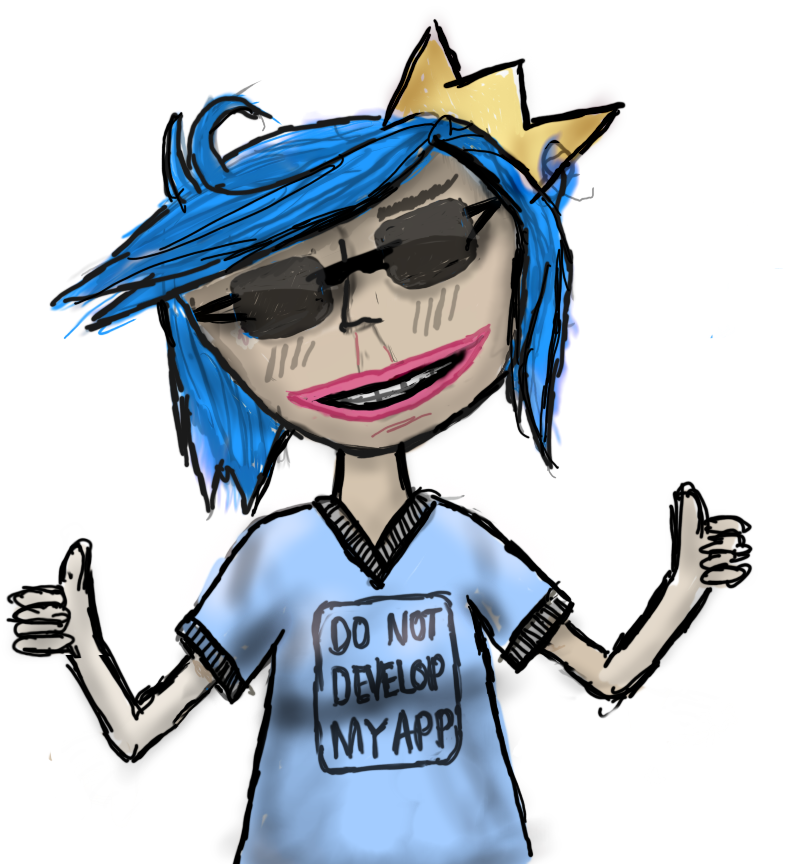
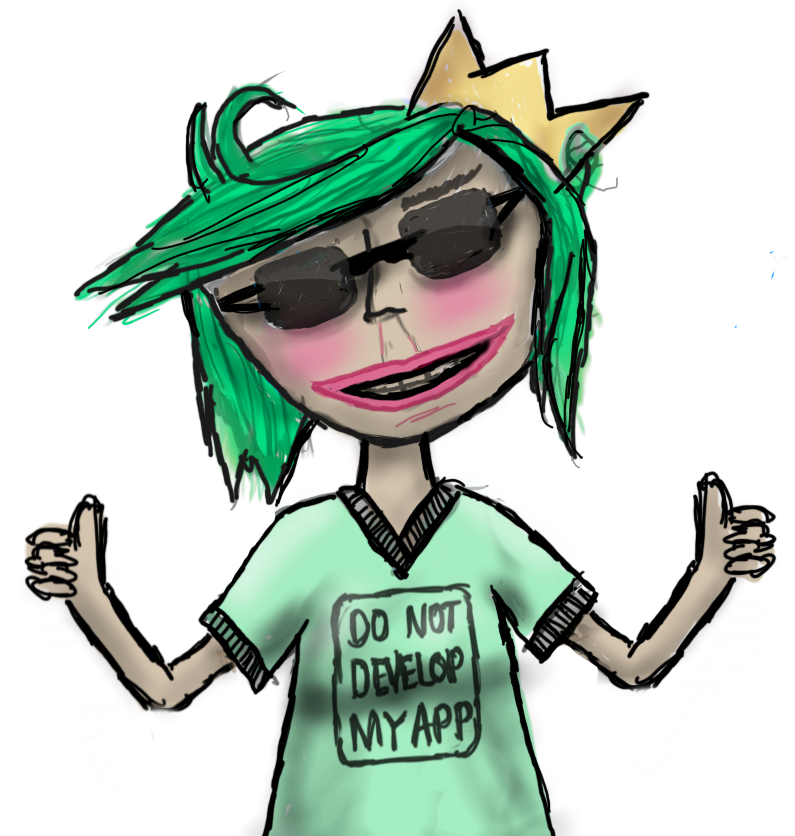
Finalizing green theme

diff --git a/handShakeClient/AppShell.xaml b/handShakeClient/AppShell.xaml
@@ -4,6 +4,7 @@
        xmlns:controls="clr-namespace:HandshakeClient.Controls"
        xmlns:views="clr-namespace:HandshakeClient.Views"
        FlyoutBackgroundImageAspect="AspectFill"
+       FlyoutBackgroundColor="{DynamicResource PageBackgroundColor}"
        FlyoutHeaderBehavior="CollapseOnScroll"
        x:Class="HandshakeClient.AppShell"
        TabBarIsVisible="False">
@@ -48,16 +49,16 @@
       </Grid>
     </DataTemplate>
   </Shell.MenuItemTemplate>
-  
-  <ShellContent Route="LoginPage"
+
+  <FlyoutItem FlyoutDisplayOptions="AsMultipleItems">
+    <ShellContent Route="LoginPage"
                 Title="Back to Login"
                 Icon="user_icon.png"
                 ContentTemplate="{DataTemplate views:LoginPage}" />
-
-  <FlyoutItem Route="animals"
-                Title="Animals"
-                FlyoutDisplayOptions="AsMultipleItems">
-      <ShellContent Route="PostsPage"
+  </FlyoutItem>
+  
+  <FlyoutItem FlyoutDisplayOptions="AsMultipleItems">
+    <ShellContent Route="PostsPage"
                 Title="Browse"
                 Icon="tab_feed.png"
                 ContentTemplate="{DataTemplate views:PostsPage}" />
@@ -66,8 +67,5 @@
                 Icon="tab_about.png"
                 ContentTemplate="{DataTemplate views:AboutPage}" />
   </FlyoutItem>
-
-
-  <!--<MenuItem Text="Logout" StyleClass="MenuItemLayoutStyle" Clicked="OnLogoutClicked"/>-->
 
 </Shell>

diff --git a/handShakeClient/Views/AboutPage.xaml b/handShakeClient/Views/AboutPage.xaml
@@ -15,16 +15,14 @@
       <RowDefinition Height="*" />
     </Grid.RowDefinitions>
     <ScrollView Grid.Row="0">
-      <StackLayout Orientation="Vertical" Padding="20,24,20,24" Spacing="10">
-        <Label Text="Start cloning now" FontSize="Title"/>
+      <StackLayout Orientation="Vertical" Padding="20,24,20,24" Spacing="10" BackgroundColor="{DynamicResource PageBackgroundColor}">
+        <Label Text="Start cloning now" FontSize="Title" BackgroundColor="{DynamicResource PageBackgroundColor}"/>
         <Label Text="This app is still in development. However you can clone the repo today. Give it a try!" FontSize="16" Padding="0"/>
         <Label Text="Learn more at:" FontSize="16" Padding="0"/>
         <Label Text="https://github.com/ultradr3mer/handshake" FontSize="15" FontAttributes="Bold" Padding="0"/>
         <Label Text="https://github.com/ultradr3mer/handshakeClientCompatible" FontSize="15" FontAttributes="Bold" Padding="0"/>
         <Button Margin="0,10,0,0" Text="Learn more"
-                Command="{Binding OpenWebCommand}"
-                BackgroundColor="{StaticResource PrimaryColor}"
-                TextColor="White" />
+                Command="{Binding OpenWebCommand}" />
       </StackLayout>
     </ScrollView>
     <Image Grid.Row="1" Source="do_not_develop.png" VerticalOptions="End" HorizontalOptions="Start" HeightRequest="256" />

diff --git a/handShakeClient/Views/PostDetailPage.xaml b/handShakeClient/Views/PostDetailPage.xaml
@@ -7,15 +7,17 @@
              xmlns:service="clr-namespace:HandshakeClient.Services"
              Title="{Binding Title}">
   <RefreshView x:DataType="local:PostDetailViewModel" Command="{Binding RefreshCommand}" IsRefreshing="{Binding IsBusy, Mode=TwoWay}">
-    <StackLayout>
+    <StackLayout Margin="10">
       <ScrollView VerticalOptions="FillAndExpand">
-        <StackLayout Margin="10">
-          <Label Text="{Binding AuthorName}" FontSize="16"/>
+        <StackLayout>
+          <Label Text="{Binding AuthorName}" 
+                 Style="{DynamicResource ListItemTextStyle}" 
+                 FontSize="16"/>
           <Label Text="{Binding Content}" FontSize="13"/>
           <StackLayout BindableLayout.ItemsSource="{Binding Replys}">
             <BindableLayout.ItemTemplate>
               <DataTemplate>
-                <StackLayout Padding="10" x:DataType="service:PostReplyGetData">
+                <StackLayout Margin="10" x:DataType="service:PostReplyGetData">
                   <Label Text="{Binding AuthorName}" 
                         LineBreakMode="NoWrap" 
                         Style="{DynamicResource ListItemTextStyle}" 

diff --git a/handShakeClient/App.xaml b/handShakeClient/App.xaml
@@ -7,9 +7,11 @@
              xmlns:android="clr-namespace:Xamarin.Forms.PlatformConfiguration.AndroidSpecific;assembly=Xamarin.Forms.Core"
              android:Application.WindowSoftInputModeAdjust="Resize">
   <Application.Resources>
+    
     <ResourceDictionary Source="Themes/GreenTheme.xaml" />
+
     <Style TargetType="Button">
-      <Setter Property="TextColor" Value="{StaticResource PrimaryTextColor}"></Setter>
+      <Setter Property="TextColor" Value="{StaticResource PrimaryTextColor}"/>
       <Setter Property="VisualStateManager.VisualStateGroups">
         <VisualStateGroupList>
           <VisualStateGroup x:Name="CommonStates">
@@ -27,5 +29,14 @@
         </VisualStateGroupList>
       </Setter>
     </Style>
+
+    <Style TargetType="ContentPage" ApplyToDerivedTypes="True">
+      <Setter Property="BackgroundColor" Value="{StaticResource PageBackgroundColor}"/>
+    </Style>
+
+    <Style TargetType="Label">
+      <Setter Property="TextColor" Value="{StaticResource PageTextColor}"/>
+    </Style>
+    
   </Application.Resources>
 </Application>

diff --git a/HandshakeClient/Themes/GreenTheme.xaml b/HandshakeClient/Themes/GreenTheme.xaml
@@ -2,9 +2,10 @@
 <ResourceDictionary xmlns="http://xamarin.com/schemas/2014/forms"
                     xmlns:x="http://schemas.microsoft.com/winfx/2009/xaml"
                     x:Class="HandshakeClient.Themes.DarkTheme">
-  <Color x:Key="PageBackgroundColor">White</Color>
+  <Color x:Key="PageBackgroundColor">#f7f7f7</Color>
+  <Color x:Key="PageTextColor">#282828</Color>
   <Color x:Key="NavigationBarColor">#00995e</Color>
   <Color x:Key="PrimaryColor">#00995e</Color>
-  <Color x:Key="DisabledColor">#335dddab</Color>
+  <Color x:Key="DisabledColor">#5500995e</Color>
   <Color x:Key="PrimaryTextColor">White</Color>
 </ResourceDictionary>

diff --git a/handShakeClient.UWP/App.xaml b/handShakeClient.UWP/App.xaml
@@ -1,7 +1,7 @@
-<Application
-    x:Class="HandshakeClient.UWP.App"
-    xmlns="http://schemas.microsoft.com/winfx/2006/xaml/presentation"
-    xmlns:x="http://schemas.microsoft.com/winfx/2006/xaml"
-    xmlns:local="using:HandshakeClient.UWP">
+<Application x:Class="HandshakeClient.UWP.App"
+            xmlns="http://schemas.microsoft.com/winfx/2006/xaml/presentation"
+            xmlns:x="http://schemas.microsoft.com/winfx/2006/xaml"
+            xmlns:local="using:HandshakeClient.UWP"
+            RequestedTheme="Light">
 
 </Application>

diff --git a/handShakeClient.UWP/MainPage.xaml b/handShakeClient.UWP/MainPage.xaml
@@ -6,10 +6,7 @@
     xmlns:forms="using:Xamarin.Forms.Platform.UWP"
     xmlns:d="http://schemas.microsoft.com/expression/blend/2008"
     xmlns:mc="http://schemas.openxmlformats.org/markup-compatibility/2006"
-    mc:Ignorable="d"
-    Background="{ThemeResource ApplicationPageBackgroundThemeBrush}">
-
-    <Grid>
-
-    </Grid>
+    mc:Ignorable="d">
+  <Grid>
+  </Grid>
 </forms:WindowsPage>

diff --git a/handShakeClient/AppShell.xaml.cs b/handShakeClient/AppShell.xaml.cs
@@ -26,11 +26,6 @@ namespace HandshakeClient
       Routing.RegisterRoute(nameof(SignupPage), typeof(SignupPage));
     }
 
-    private async void OnLogoutClicked(object sender, EventArgs e)
-    {
-      await Shell.Current.GoToAsync("//LoginPage");
-    }
-
     #endregion Methods
   }
 }
